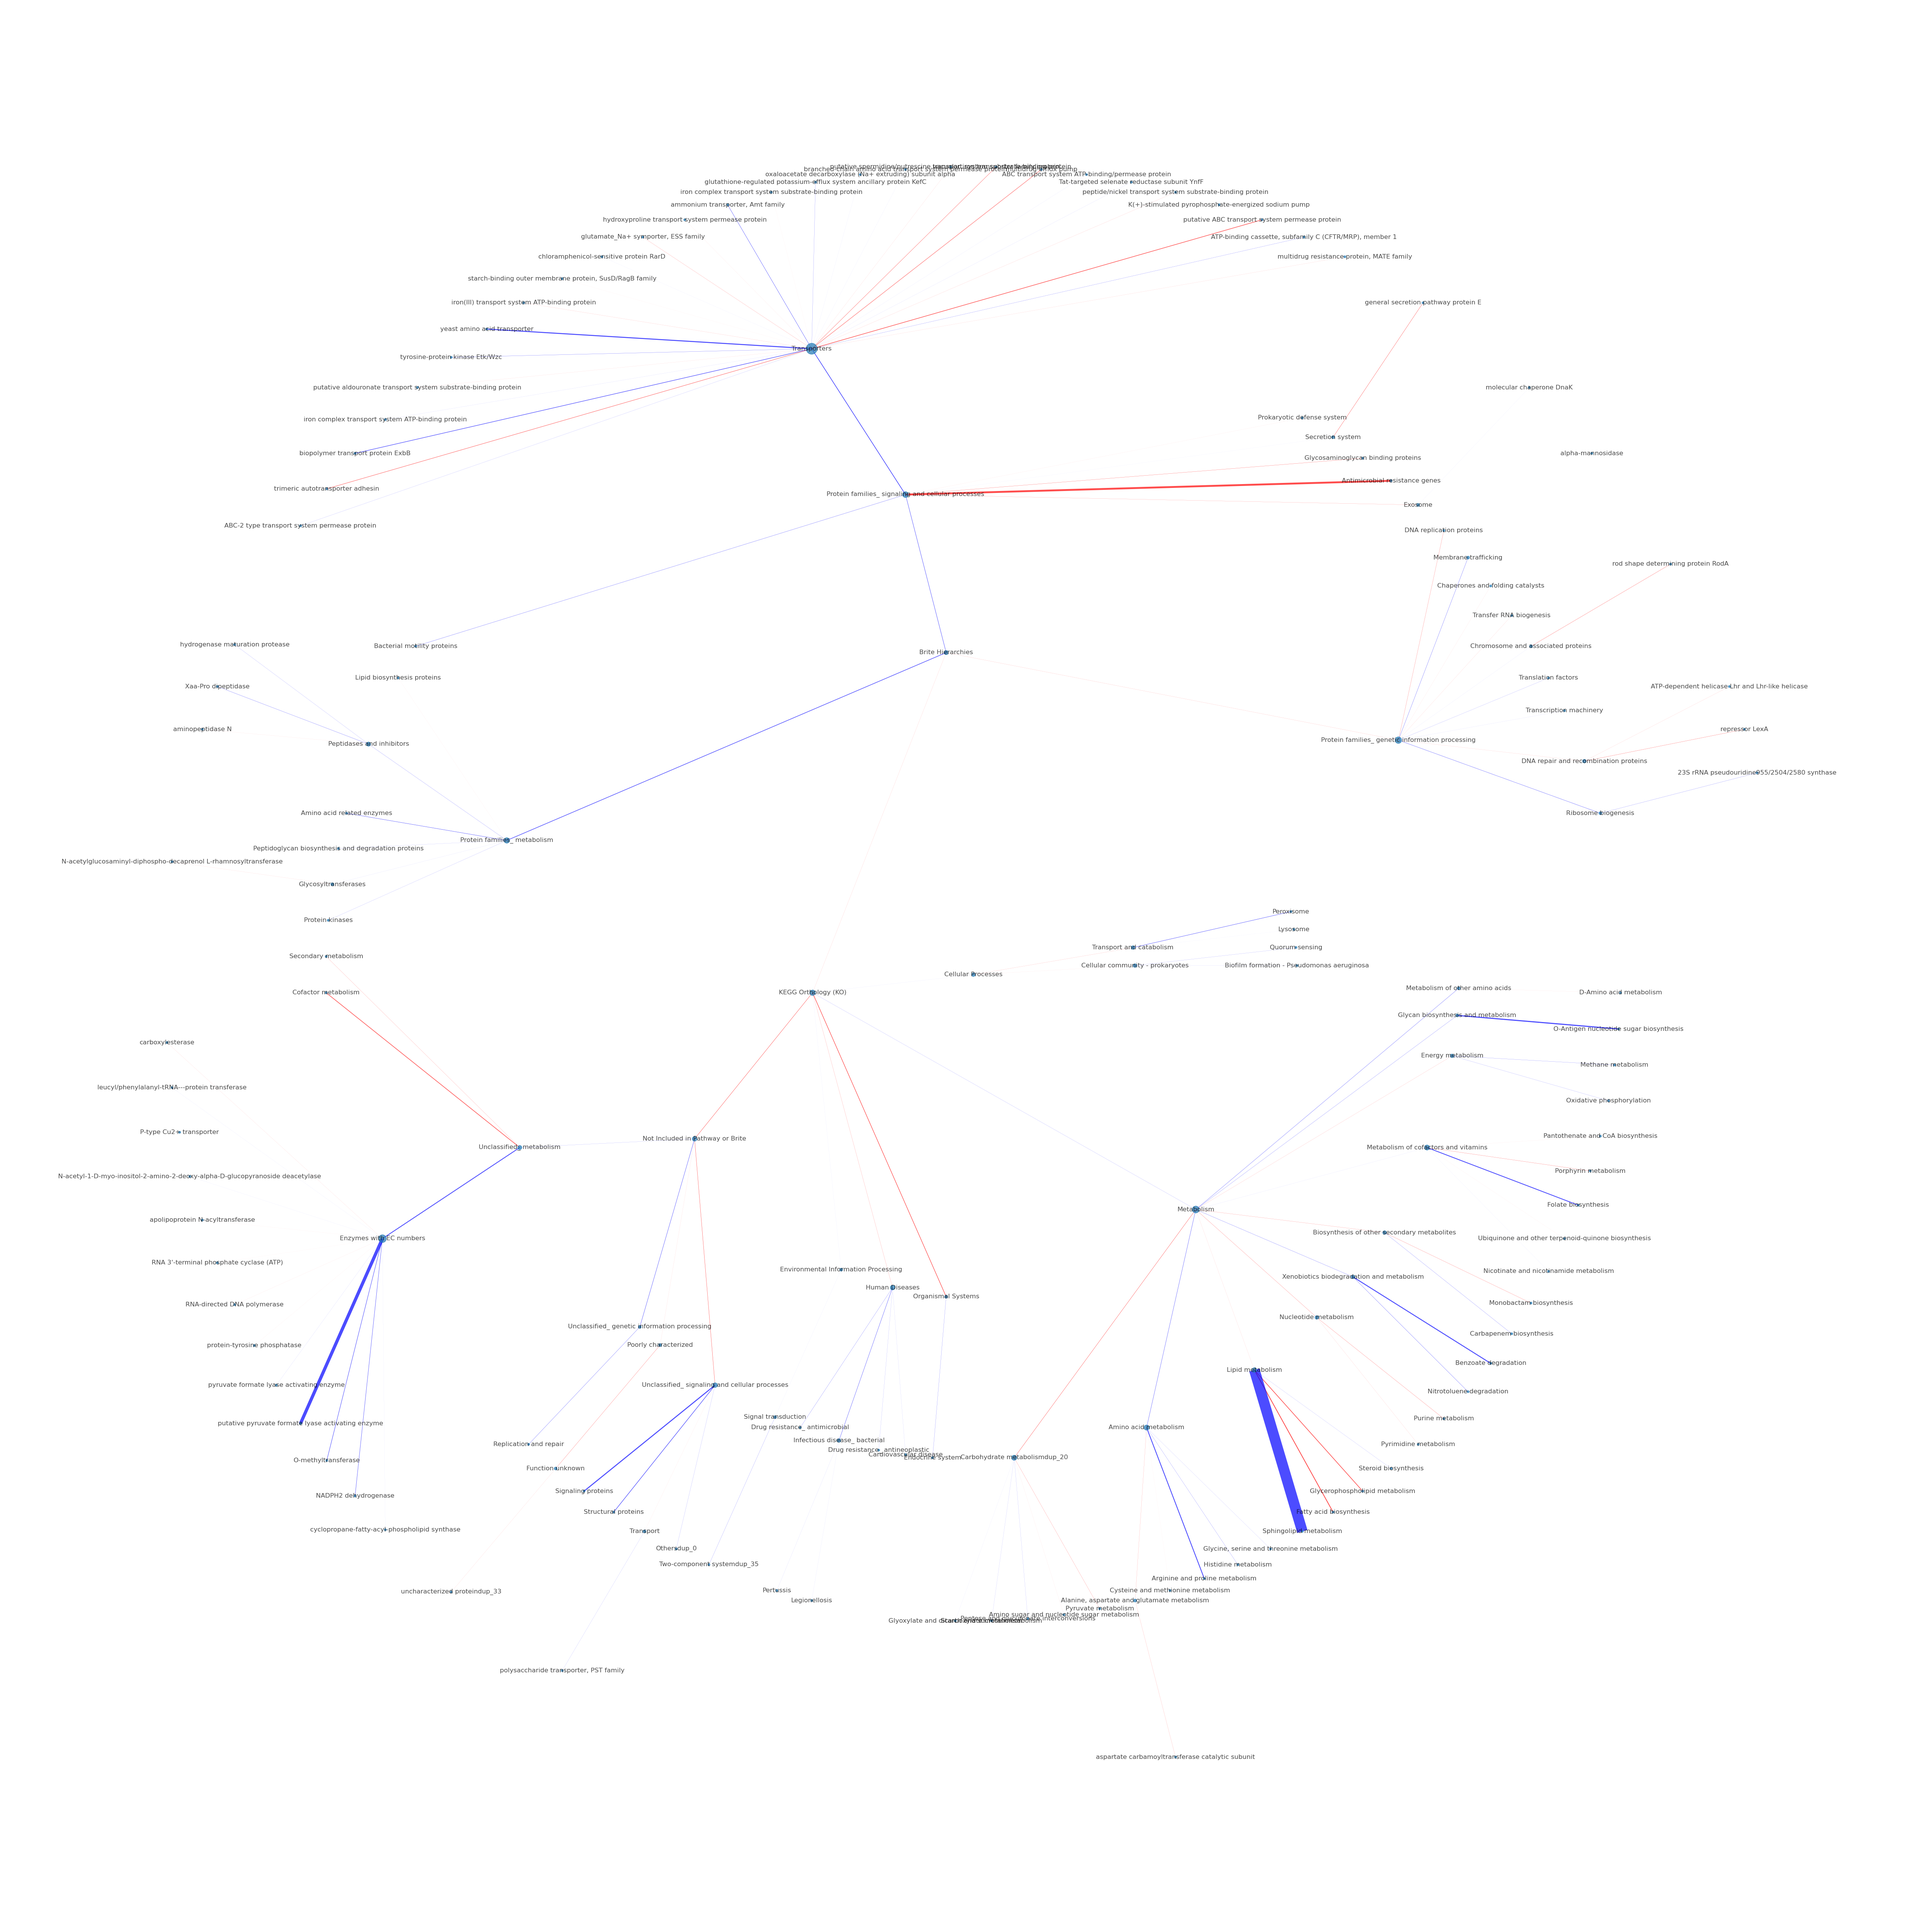
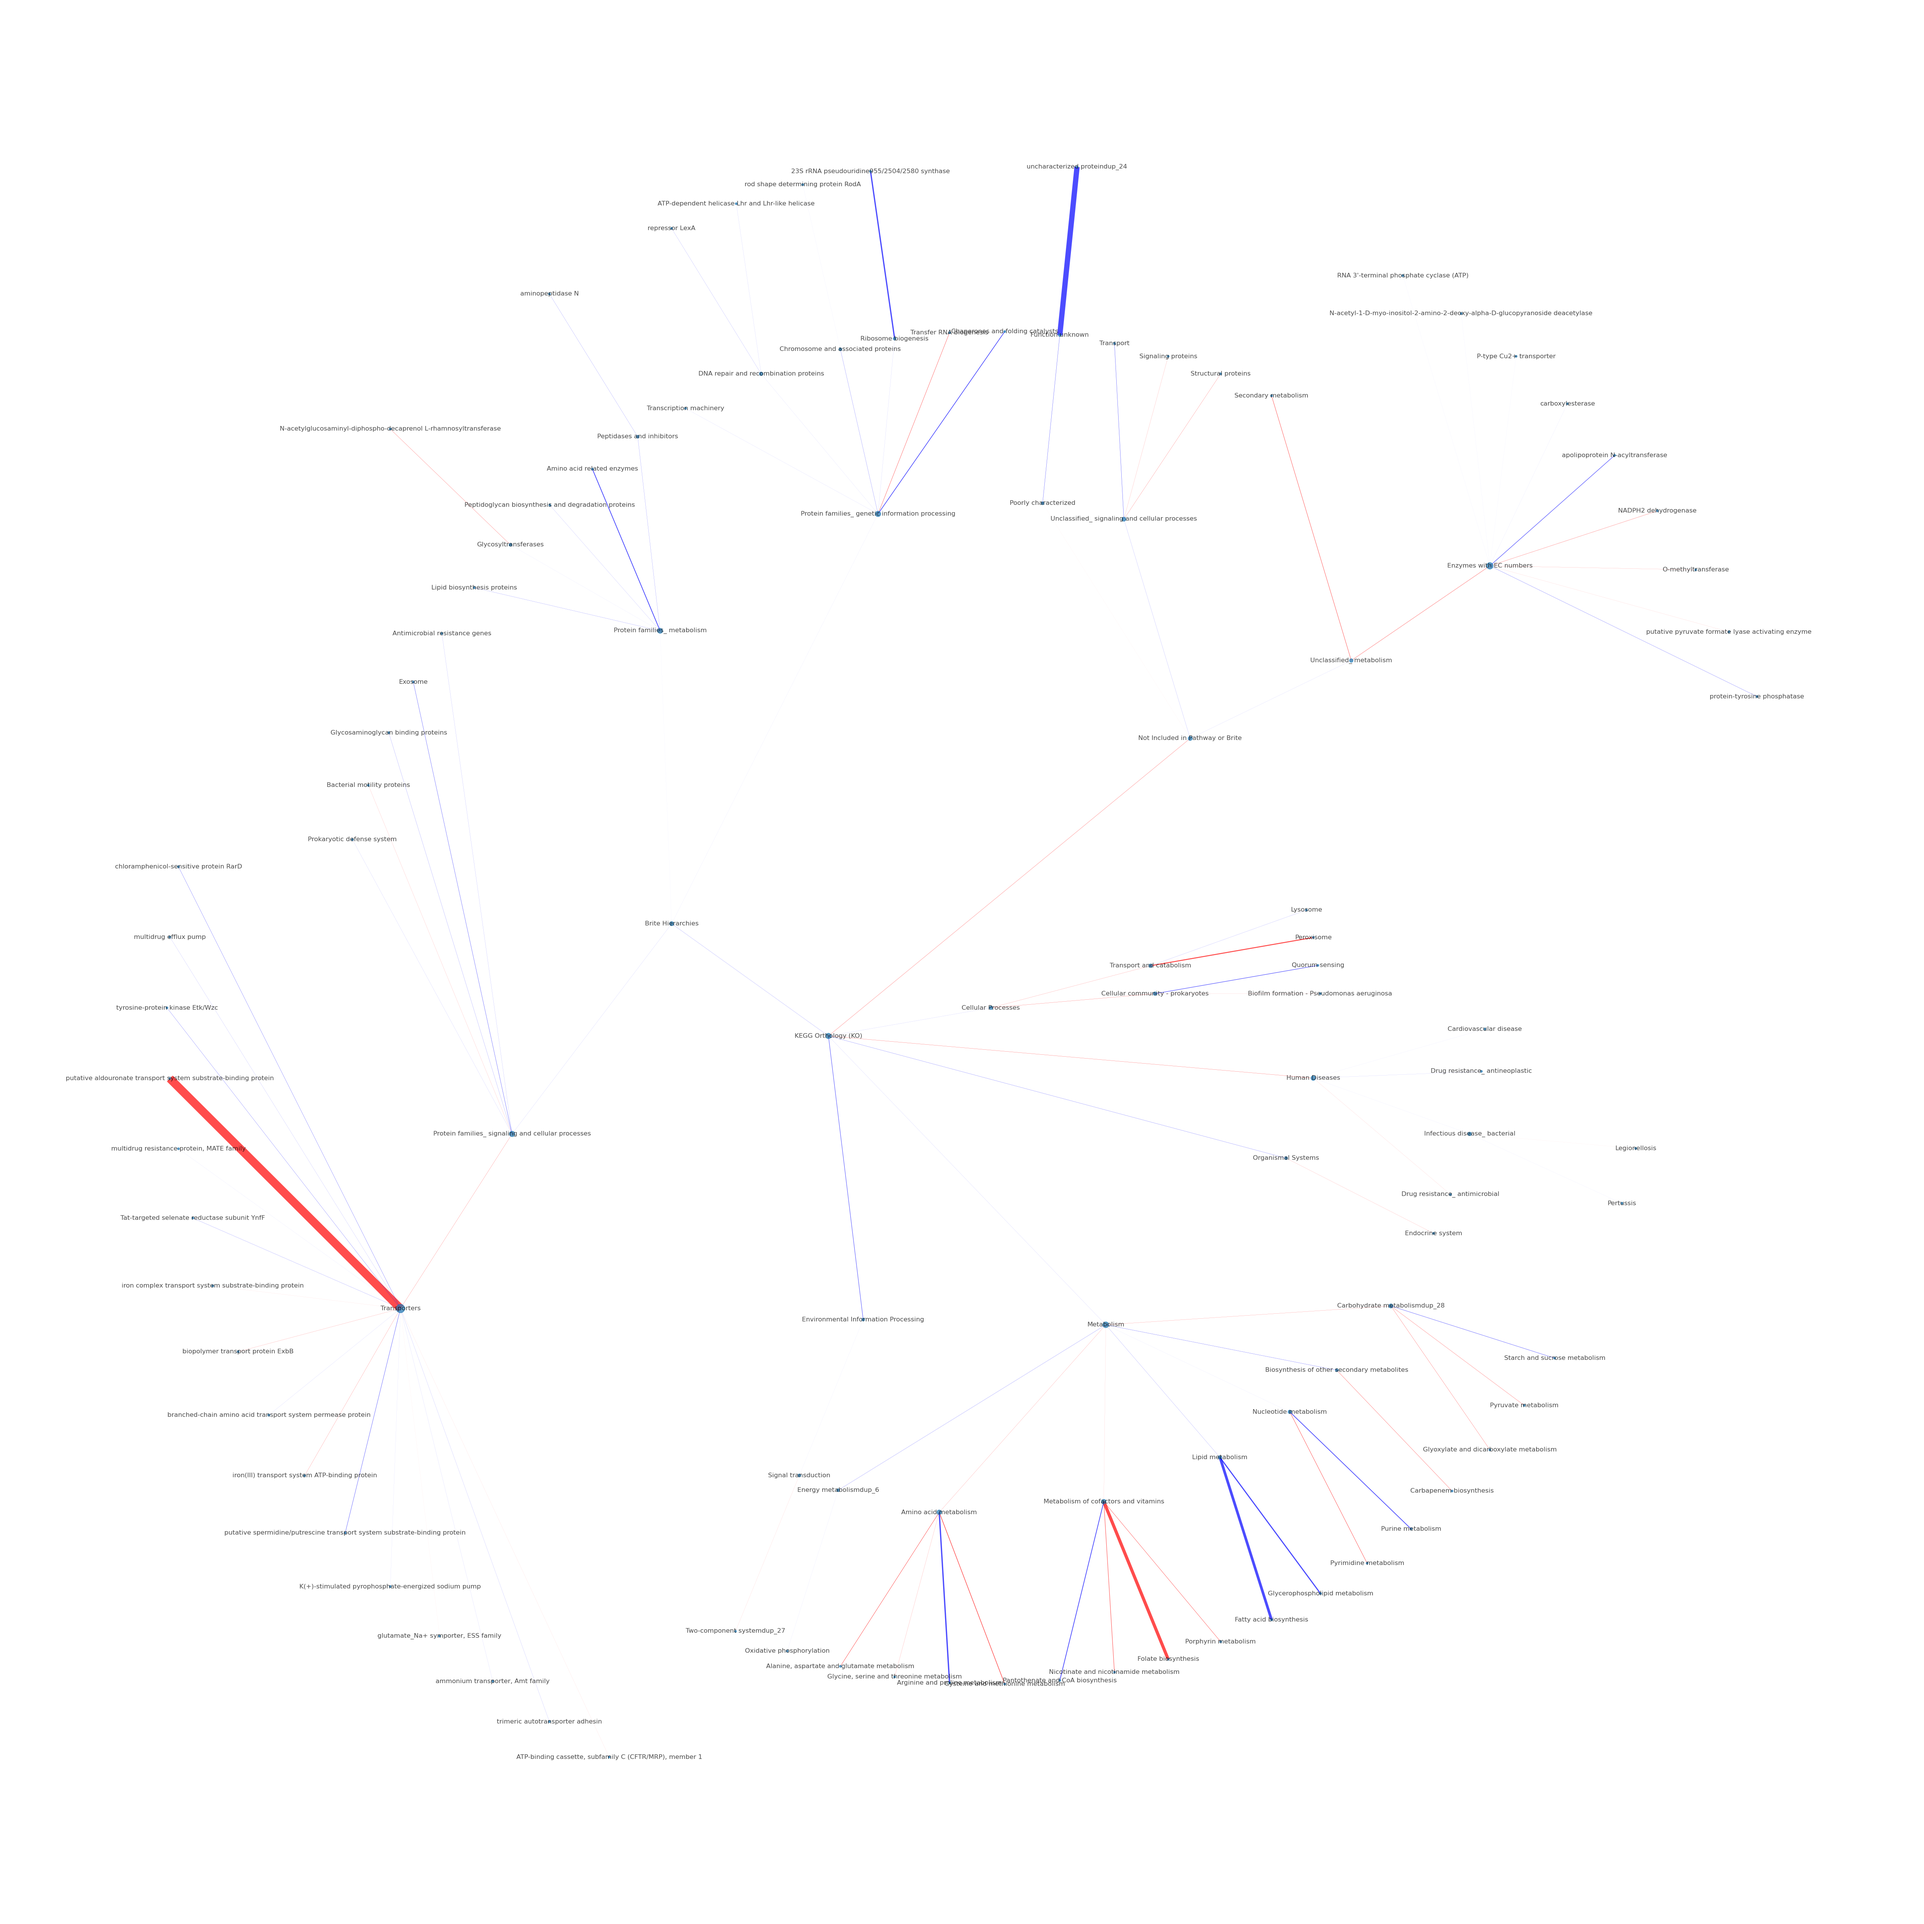
plot for top 10% edges

diff --git a/scripts/process_diffab.py b/scripts/process_diffab.py
@@ -21,7 +21,7 @@ from src.KEGG_helpers import make_nodes_readable
 matplotlib.use('Agg')
 
 
-percentage_of_edges_to_keep = 15
+percentage_of_edges_to_keep = 10
 
 
 # The code above is a bit messy, but it should be fairly easy to follow. The main thing to note is that the diffabs
@@ -153,6 +153,7 @@ for vertex in list(vertices_to_keep):
 
 T = T.subgraph( list(vertices_in_final_subtree) )
 pos = graphviz_layout(T, prog="twopi")
+print(pos)
 print('Checking if this is still a tree')
 print(nx.is_tree(T))
 
